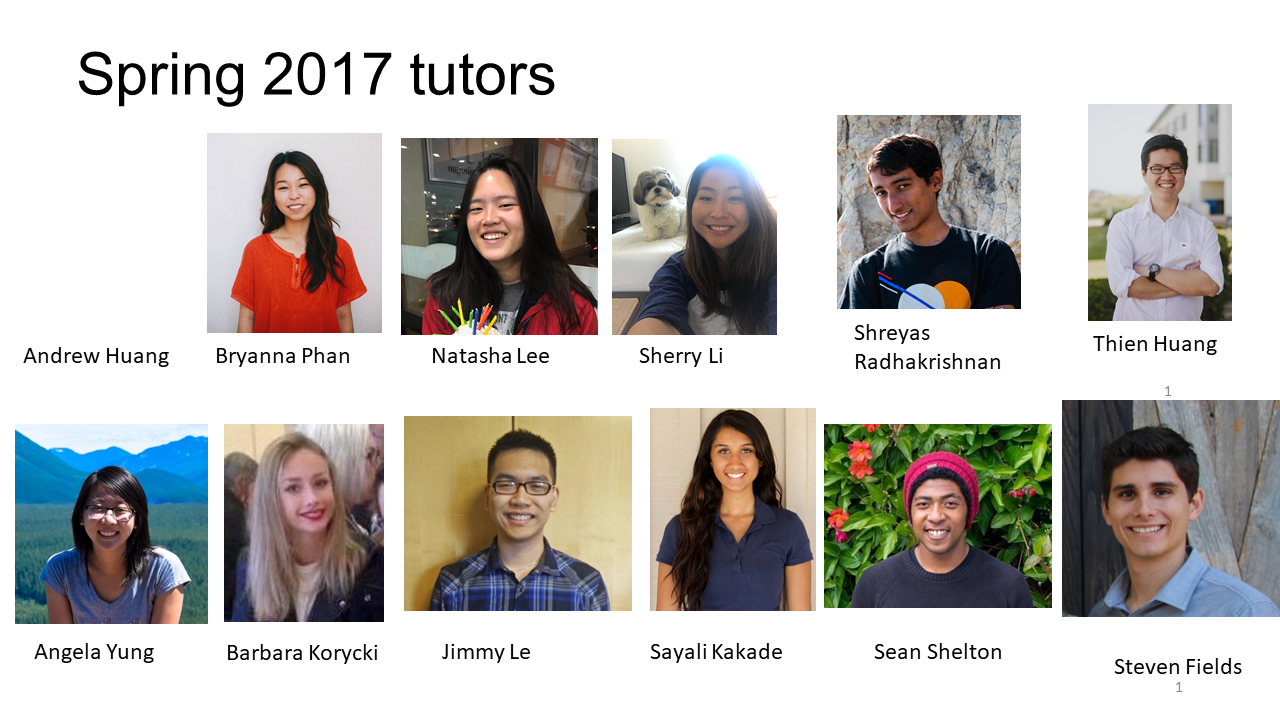
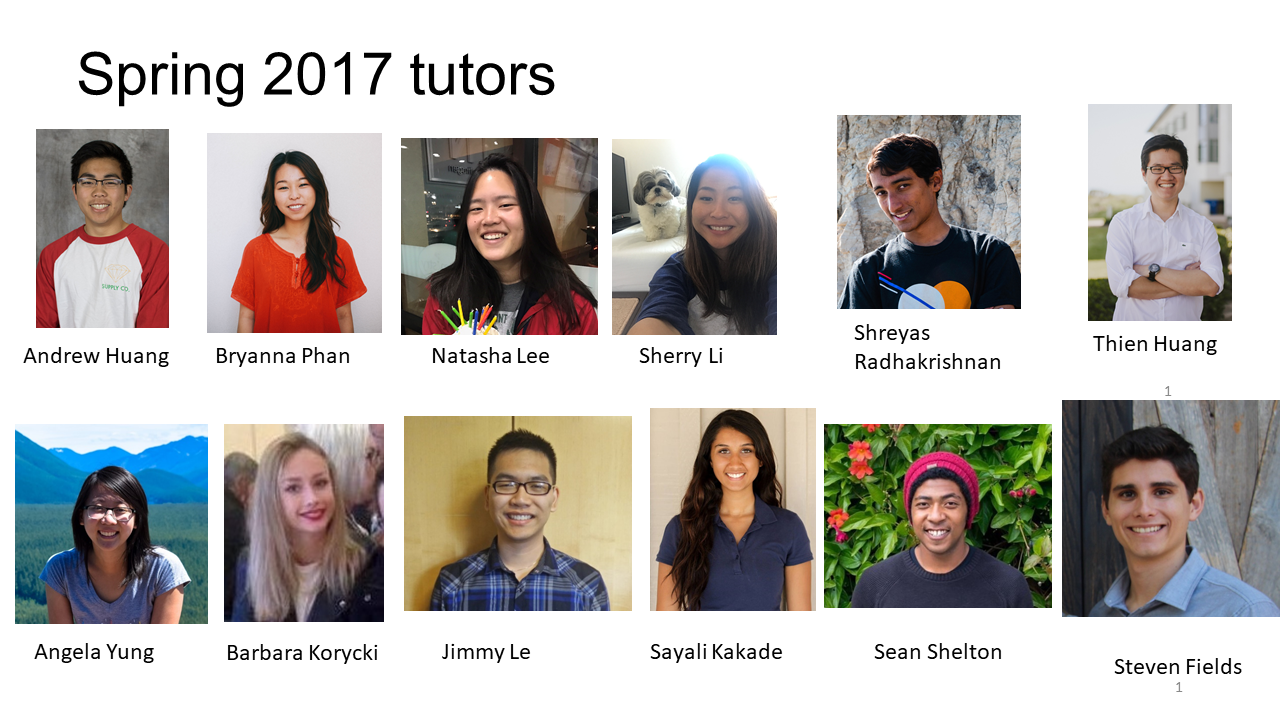
lab09

Changed region(s): [[0.0312, 0.1528, 0.1562, 0.4583]]

diff --git a/_lab/lab09.md b/_lab/lab09.md
@@ -23,7 +23,7 @@ Here is the link to the survey:
 You may use the following document to identify the mentors:
 
 ![Tutors](/lab/lab09/Spring2017-mentors/Slide1.PNG){:height="500px"}
-
+![TAs](/lab/lab09/Spring2017-mentors/Slide2.PNG){:height="500px"}
 
 </div>
 
